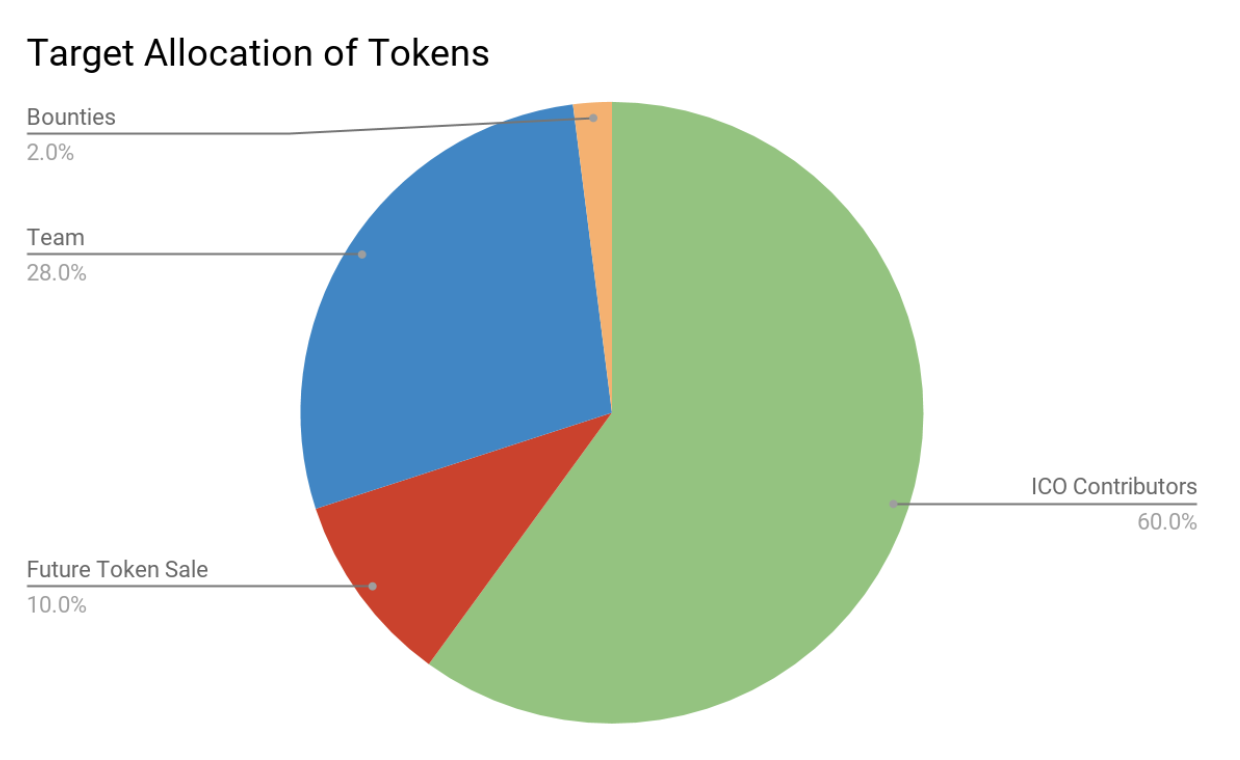
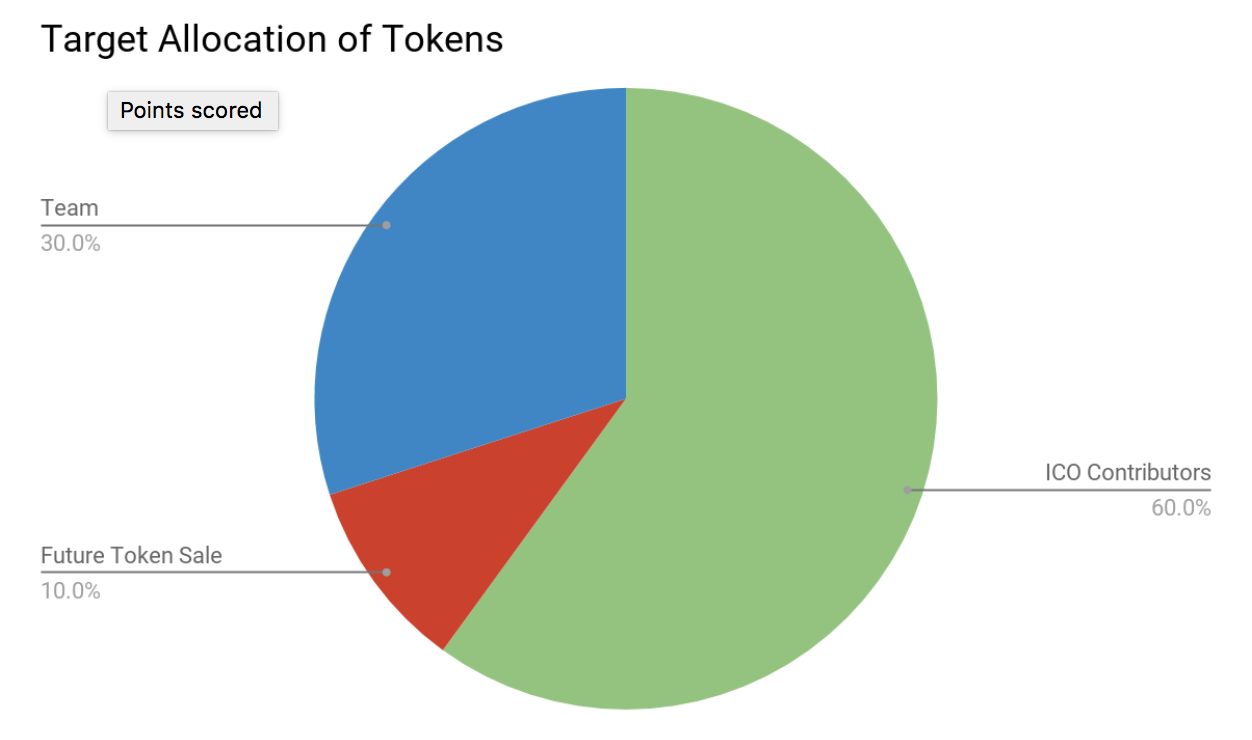
remove bounty tokens

diff --git a/ico.md b/ico.md
@@ -26,7 +26,7 @@ Contributors will receive 1000 UPT per 1 ETH. The total amount of UPT is not cap
 
 ## What are the token allocations for the team and contributors?
 
-We aim to have contributors own the majority of the tokens. After the crowdsale has ended, we will mint some tokens for special cases so that 60% of the total tokens are held by contributors of the crowdsale. 10% will be minted for a future crowdsale if funding is required. 28% will be minted for the team to be vested over a 2-year period with a 6 month cliff. The remaining 2% of tokens will be offered for auditing and bug bounties.
+We aim to have contributors own the majority of the tokens. After the crowdsale has ended, we will mint some tokens for special cases so that 60% of the total tokens are held by contributors of the crowdsale. 10% will be minted for a future crowdsale if funding is required. 30% will be minted for the team to be vested over a 2-year period with a 6 month cliff.
 
 ![Breakdown of Token Allocation]({{ site.baseurl }}/images/token-breakdown.png "Breakdown of token allocations")
 
